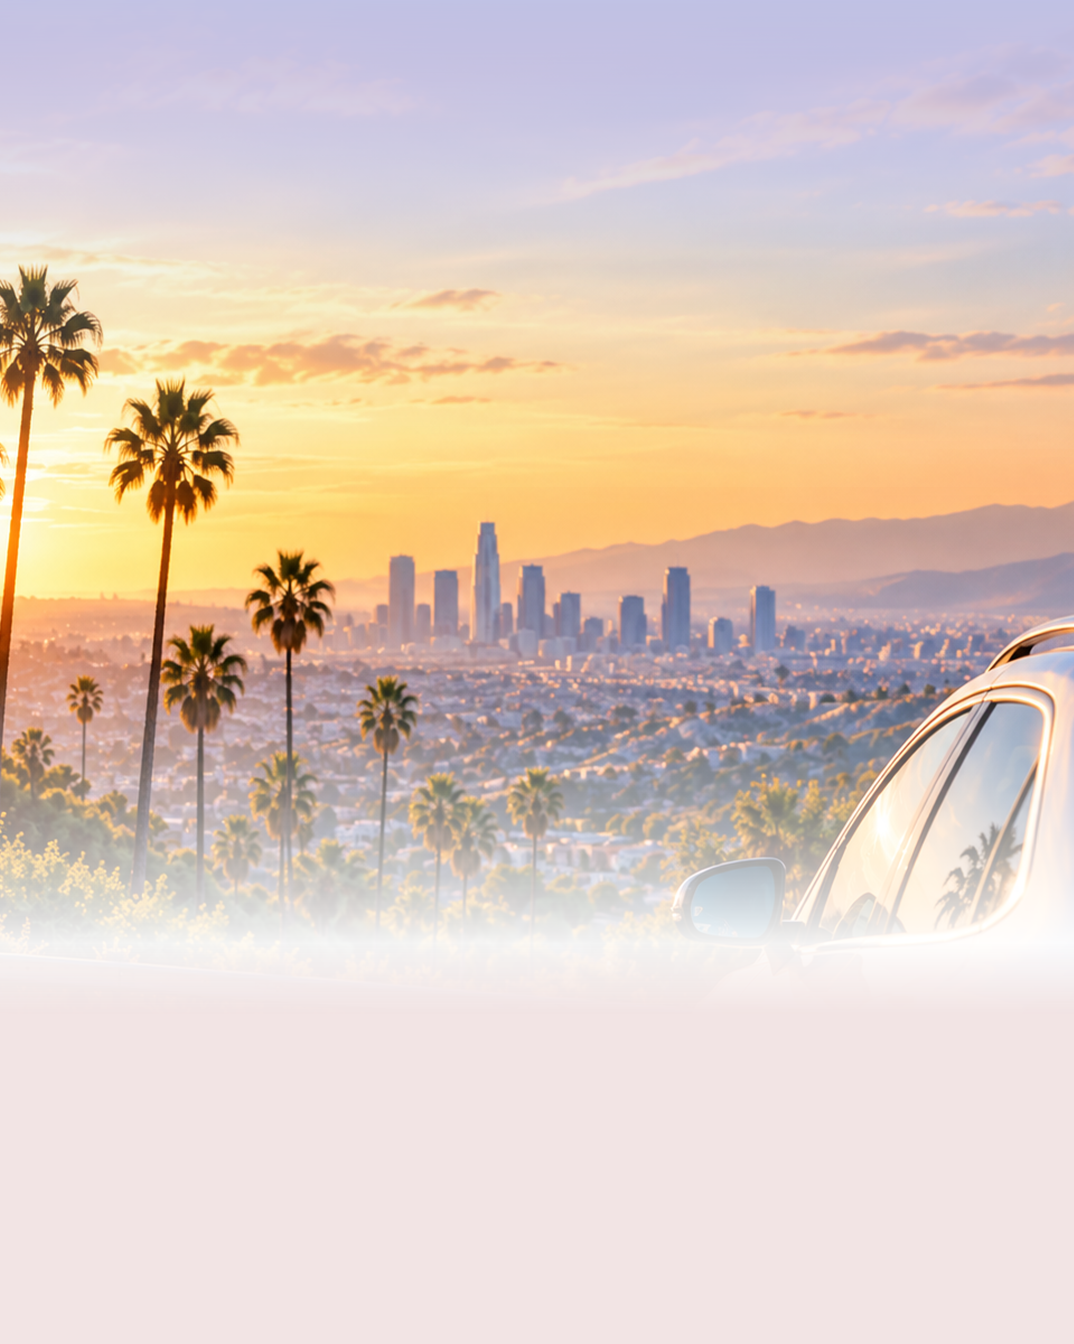
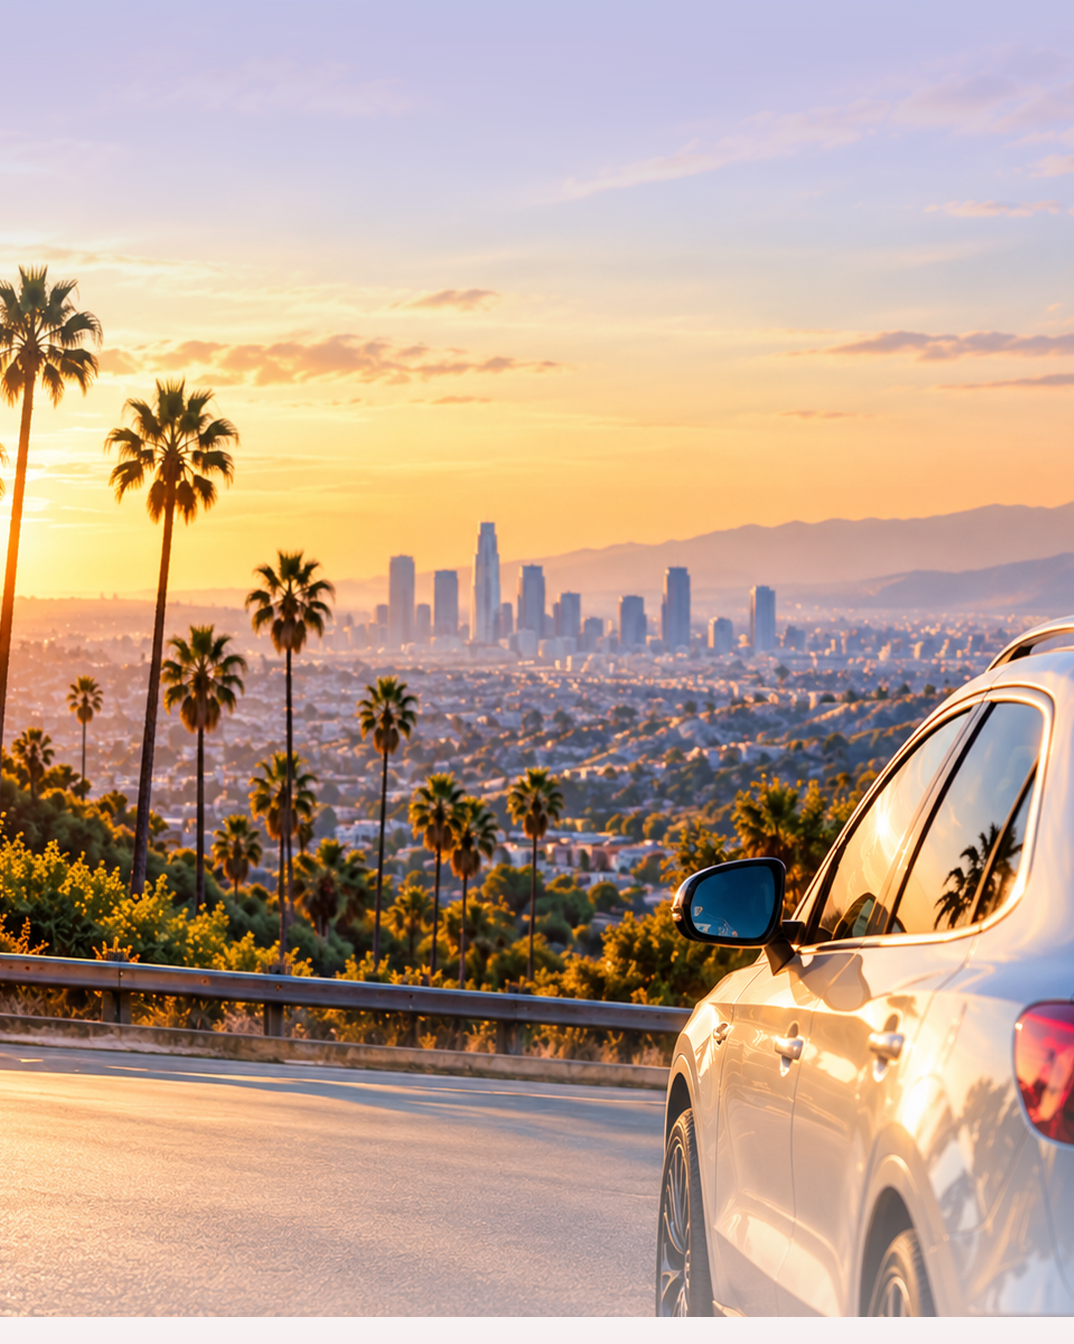
Insurance: photo runs behind the fields under iOS 27 glass (no barcode, no dead space)

diff --git a/index.html b/index.html
@@ -86,6 +86,8 @@ button,select{font:inherit;color:inherit}
 .poster .bcwrap .bc{width:100%;height:auto}
 .poster .bcwrap .bc-alt{font-size:11.5px}
 /* Like Pass Designer: the artwork melts into footerBackgroundColor behind the fields instead of a hard edge. */
+/* No footerBackgroundColor: iOS 27 draws frosted glass over the artwork, starting ~341pt down a 448pt pass. */
+.poster .body.glassfoot{top:76.1%;background:rgba(255,255,255,.28);-webkit-backdrop-filter:blur(18px) saturate(1.4);backdrop-filter:blur(18px) saturate(1.4);padding:10px 14px 11px}
 .poster .body{position:absolute;left:0;right:0;bottom:0;background:linear-gradient(to bottom,transparent,color-mix(in srgb,var(--footer,#fff) 85%,transparent) 34%,var(--footer,#fff) 62%);padding:58px 14px 11px}
 .poster .row{display:grid;gap:8px;margin-top:8px}.poster .row.n3{gap:6px}.poster .row.n3 .v{font-size:9px}.poster .row.n3 .l{font-size:8.5px}.poster .row.n4 .v{font-size:8.5px}.poster .row.n4 .l{font-size:8px}
 .fld{min-width:0}
@@ -774,7 +776,7 @@ function renderPoster(p, dict){
     ${logo ? `<img class="plogo" src="${esc(logo)}" alt="Primary logo">` : ''}
     ${head[0] ? `<div class="phead" data-f="headerFields:0"><small>${esc(head[0].label)}</small>${esc(head[0].value)}</div>` : ''}
     ${bc ? `<div class="bcwrap"><div class="bcpanel">${barcodeSVG(bc, 190, 48)}<div class="bc-alt">${esc(bc.altText||'')}</div></div></div>` : ''}
-    <div class="body">
+    <div class="body${p.footerBackgroundColor ? '' : ' glassfoot'}">
       ${prim.length ? `<div class="row n${prim.length}" style="grid-template-columns:repeat(${prim.length},auto);justify-content:space-between">${prim.map((f,i)=>fld(f,'primaryFields',i, prim.length>1 && i===prim.length-1 ? 'r' : i>0 ? 'c' : '', true)).join('')}</div>` : ''}
       ${foot[0] ? `<div class="foot" data-f="footerFields:0">${esc(foot[0].value)}</div>` : ''}
     </div></div>`;
